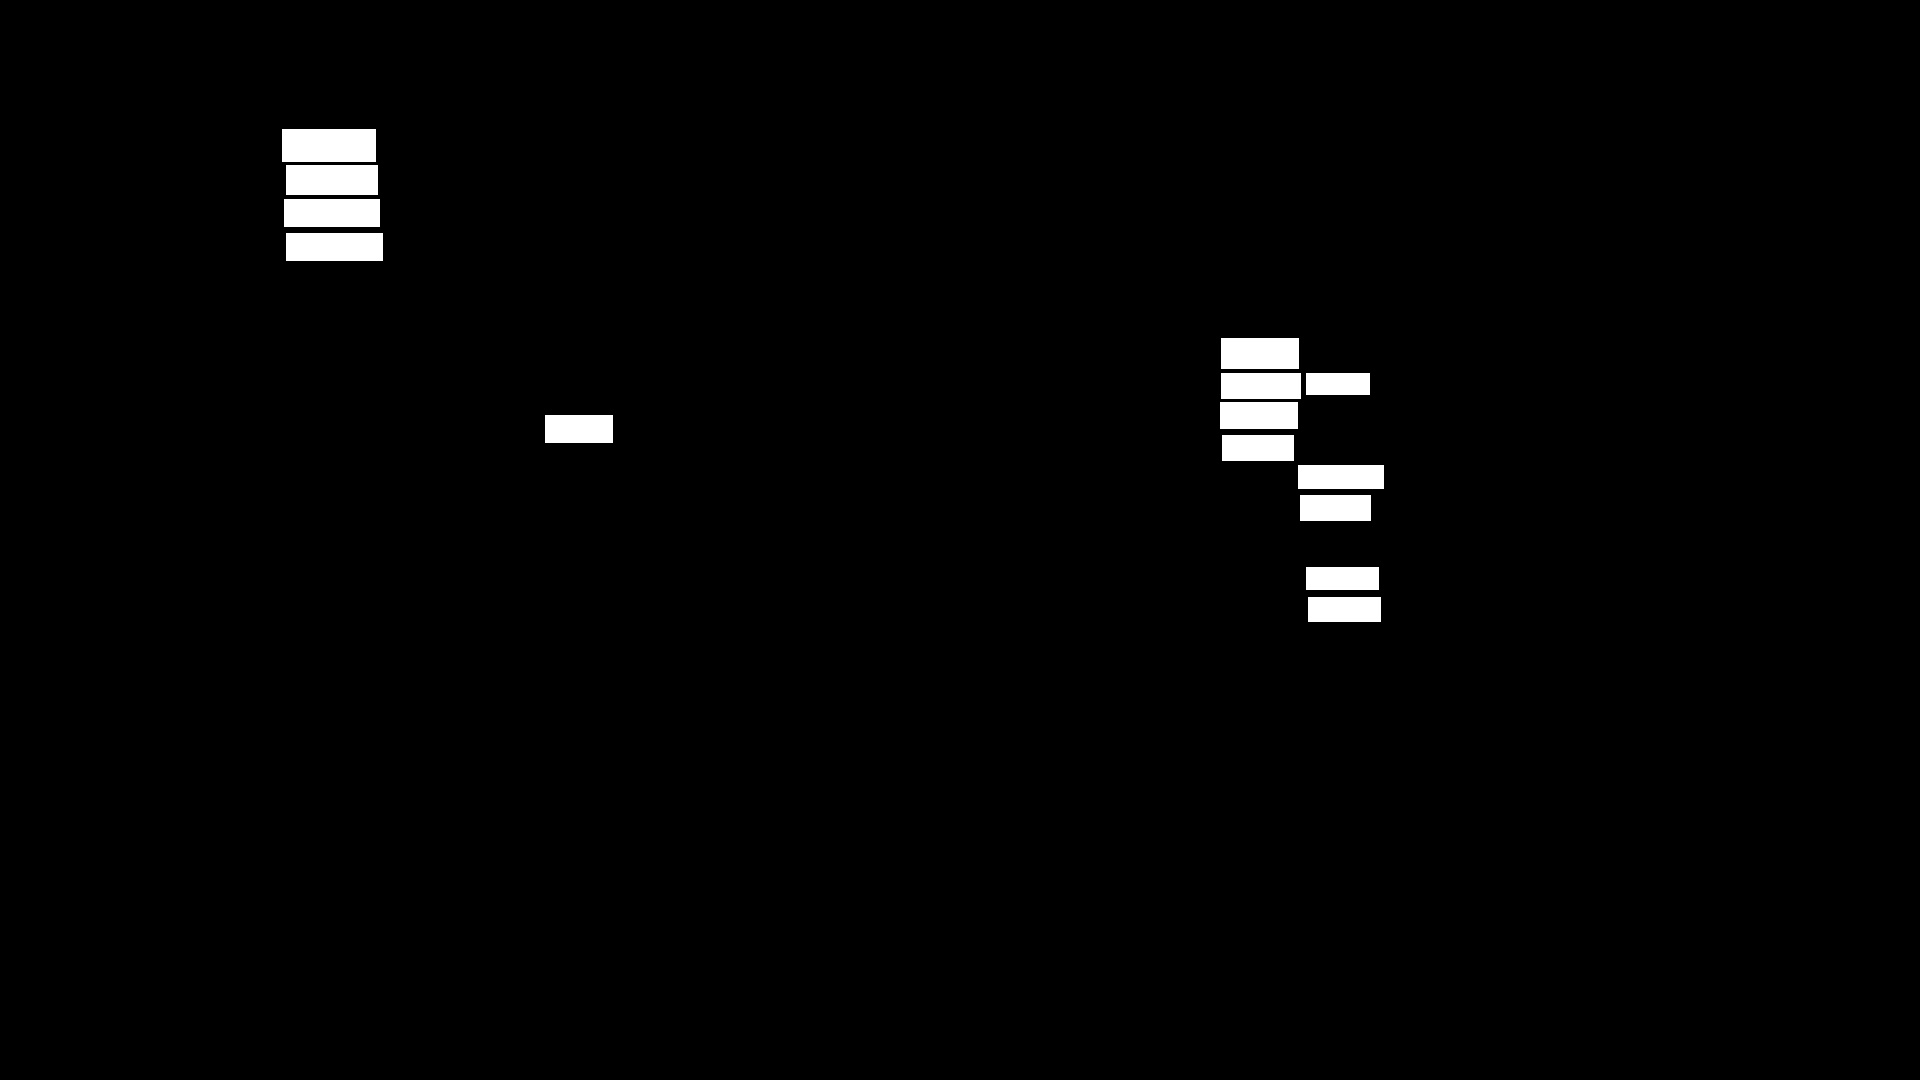
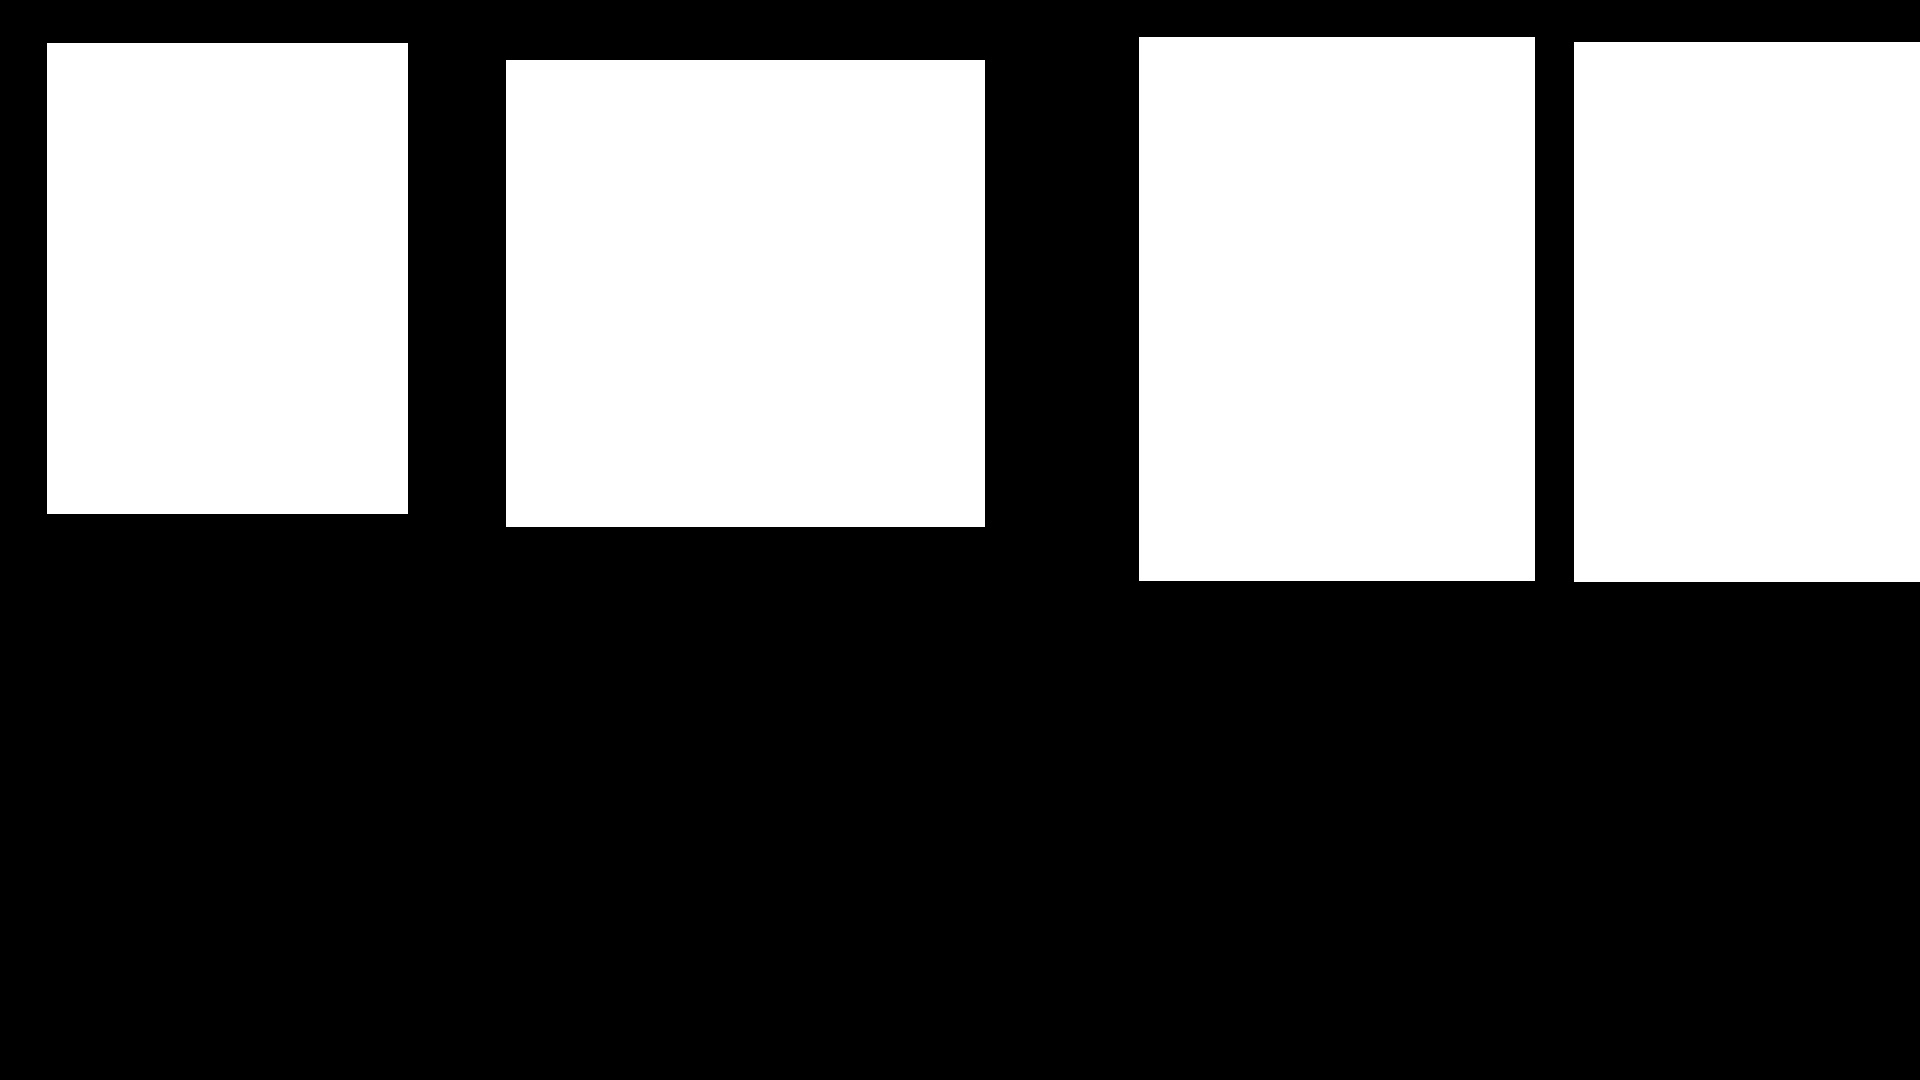
final commit

diff --git a/train_model_final.py b/train_model_final.py
@@ -5,13 +5,16 @@ from sklearn.svm import LinearSVC
 from sklearn.preprocessing import StandardScaler
 from sklearn.pipeline import Pipeline
 from sklearn.model_selection import train_test_split
+from sklearn.metrics import classification_report, confusion_matrix, ConfusionMatrixDisplay
 import cv2
 import os
 import pickle
+import matplotlib.pyplot as plt
+import random
 
 # ── Paths ─────────────────────────────────────────────────────────
-positive_path = "./dataset-v2/vehicles"
-negative_path = "./dataset-v2/non-vehicles"
+positive_path = "./dataset/vehicles"
+negative_path = "./dataset/non-vehicles"
 
 # ── HOG extraction ────────────────────────────────────────────────
 def extract_hog(image):
@@ -133,3 +136,73 @@ with open("model-v2.pkl", "wb") as f:
     pickle.dump(model, f)
 
 print("\nModel saved to model-v2.pkl")
+
+# ── Evaluation ────────────────────────────────────────────────────
+print("\nEvaluating on test set...")
+y_pred = model.predict(X_test)
+print("Classification Report:")
+print(classification_report(y_test, y_pred, target_names=["Non-Vehicle", "Vehicle"]))
+
+# Plot Confusion Matrix
+cm = confusion_matrix(y_test, y_pred)
+disp = ConfusionMatrixDisplay(confusion_matrix=cm, display_labels=["Non-Vehicle", "Vehicle"])
+disp.plot(cmap=plt.cm.Blues)
+plt.title("Confusion Matrix")
+plt.savefig("confusion_matrix.png")
+print("Confusion matrix saved to confusion_matrix.png")
+plt.show(block=False)
+plt.pause(2)
+plt.close()
+
+# ── Sample Predictions ─────────────────────────────────────────────
+print("\nRunning sample predictions...")
+sample_images = []
+sample_labels = []
+
+# Get some random positives
+pos_files = [f for f in os.listdir(positive_path) if f.lower().endswith(('.jpg', '.jpeg', '.png'))]
+if pos_files:
+    for _ in range(3):
+        f = random.choice(pos_files)
+        img = cv2.imread(os.path.join(positive_path, f))
+        if img is not None:
+            if img.shape[:2] != (64, 64):
+                img = cv2.resize(img, (64, 64))
+            sample_images.append(img)
+            sample_labels.append(1)
+
+# Get some random negatives
+neg_files = [f for f in os.listdir(negative_path) if f.lower().endswith(('.jpg', '.jpeg', '.png'))]
+if neg_files:
+    for _ in range(3):
+        f = random.choice(neg_files)
+        img = cv2.imread(os.path.join(negative_path, f))
+        if img is not None:
+            if img.shape[:2] != (64, 64):
+                img = cv2.resize(img, (64, 64))
+            sample_images.append(img)
+            sample_labels.append(0)
+
+if sample_images:
+    fig, axes = plt.subplots(2, 3, figsize=(10, 7))
+    for i, ax in enumerate(axes.flat):
+        if i < len(sample_images):
+            img = sample_images[i]
+            true_label = "Vehicle" if sample_labels[i] == 1 else "Non-Vehicle"
+            
+            # Predict
+            feat = extract_hog(img).reshape(1, -1)
+            pred = model.predict(feat)[0]
+            pred_label = "Vehicle" if pred == 1 else "Non-Vehicle"
+            
+            # Convert BGR to RGB for matplotlib
+            img_rgb = cv2.cvtColor(img, cv2.COLOR_BGR2RGB)
+            ax.imshow(img_rgb)
+            ax.set_title(f"True: {true_label}\nPred: {pred_label}", 
+                        color="green" if true_label == pred_label else "red")
+            ax.axis('off')
+    
+    plt.tight_layout()
+    plt.savefig("sample_predictions.png")
+    print("Sample predictions saved to sample_predictions.png")
+    plt.show()

diff --git a/application/app.py b/application/app.py
@@ -1,4 +1,9 @@
-import pickle, threading, time
+import os, pickle, threading, time
+from dotenv import load_dotenv
+
+# Load environment variables from .env file
+load_dotenv()
+
 import numpy as np
 import cv2
 from skimage.feature import hog
@@ -8,8 +13,9 @@ from fastapi.middleware.cors import CORSMiddleware
 
 # ── Config ────────────────────────────────────────────────────────
 MASK_PATH  = './mask.jpg'
-CAMERA_SRC = "http://192.168.1.4:8080/video"                        # webcam; swap for RTSP URL
-MODEL_PATH = './model-v2.pkl'
+CAMERA_SRC = os.getenv("CAMERA_SRC", "D:\\Kuliah\\Semester4\\comvis\\aol\parking-slot-counter-computer-vision\\parking_1920_1080_loop.mp4")
+# CAMERA_SRC = "D:\\Kuliah\\Semester4\\comvis\\aol\parking-slot-counter-computer-vision\\parking_1920_1080_loop.mp4"                        # webcam; swap for RTSP URL
+MODEL_PATH = './model-final.pkl'
 STEP       = 30
 
 EMPTY     = True

diff --git a/application/make-mask.py b/application/make-mask.py
@@ -1,5 +1,10 @@
 import cv2 as cv
 import numpy as np
+import os
+from dotenv import load_dotenv
+
+# Load environment variables from .env file
+load_dotenv()
 
 EVENT_MOUSEMOVE = 0
 EVENT_LBUTTONDOWN = 1
@@ -81,10 +86,13 @@ def sliderCallback(num):
     print(f"My Custom Callback {num}")
 
 
+
+CAMERA_SRC= os.getenv("CAMERA_SRC")
+
 if (__name__ == "__main__"):
     
     cv.namedWindow(window_name)
-    cap = cv.VideoCapture("../parking_1920_1080_loop.mp4")
+    cap = cv.VideoCapture(CAMERA_SRC)
     
     # Add a slider
     cv.createTrackbar("slider_name", window_name, 0, 100, sliderCallback)
